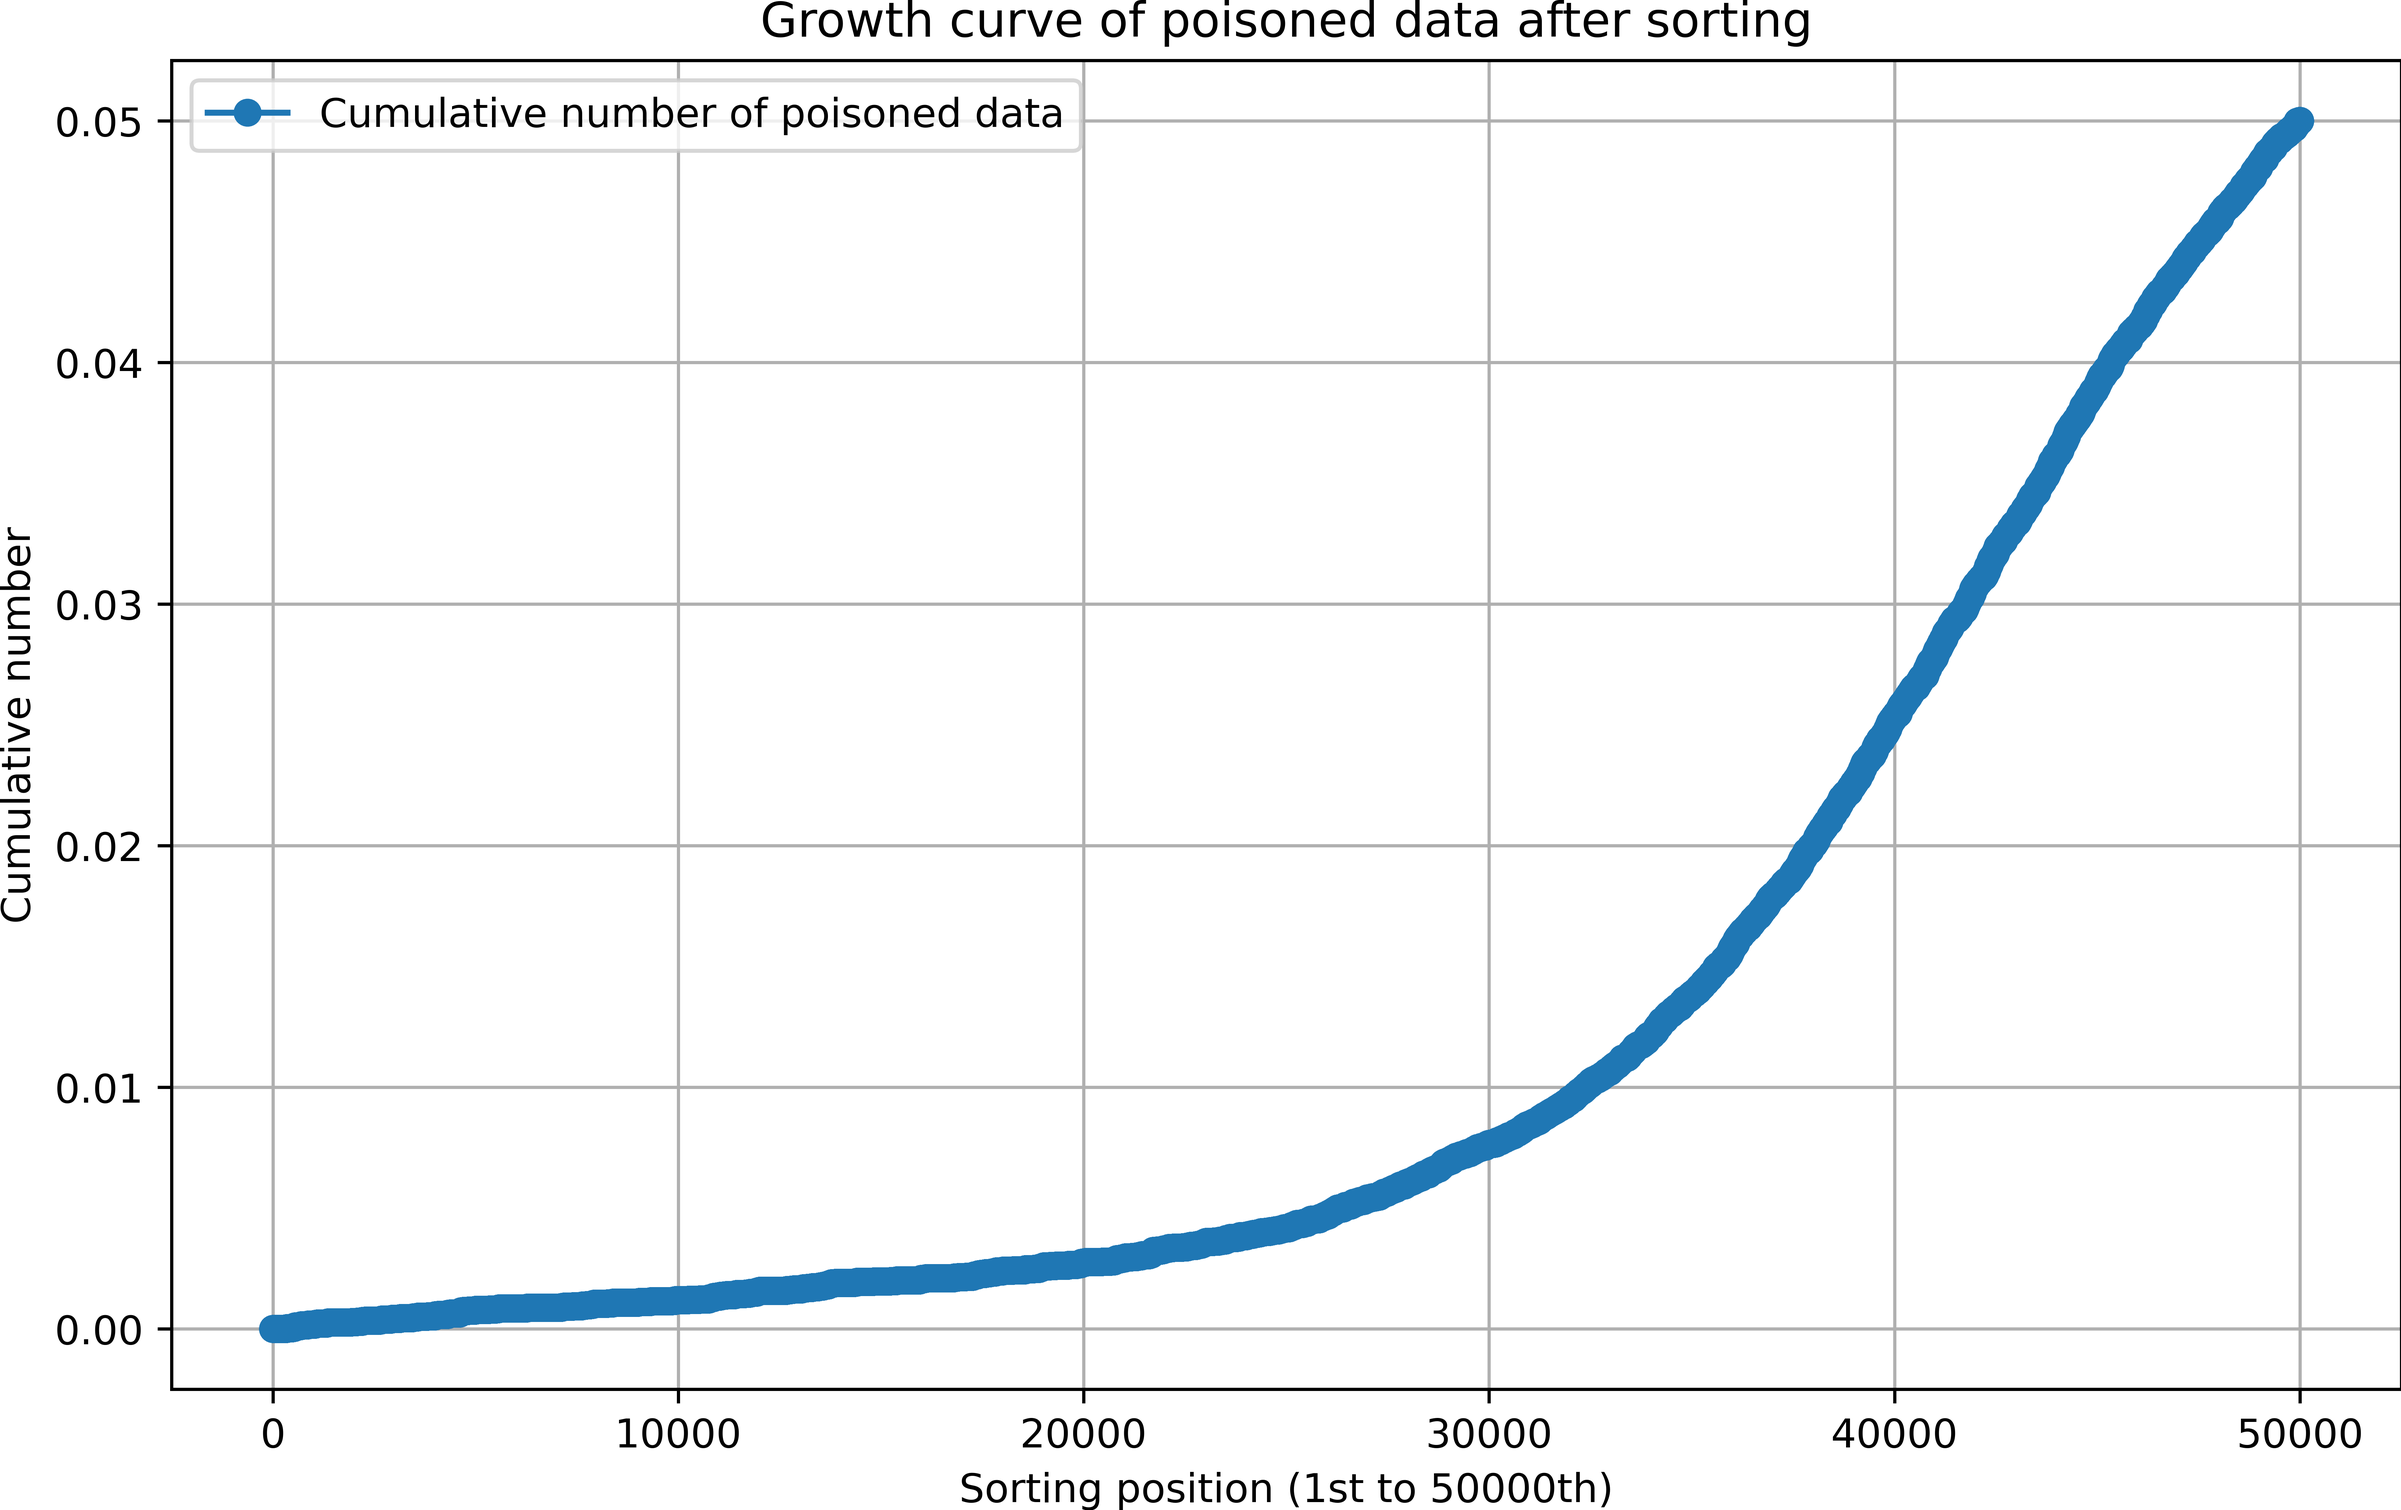
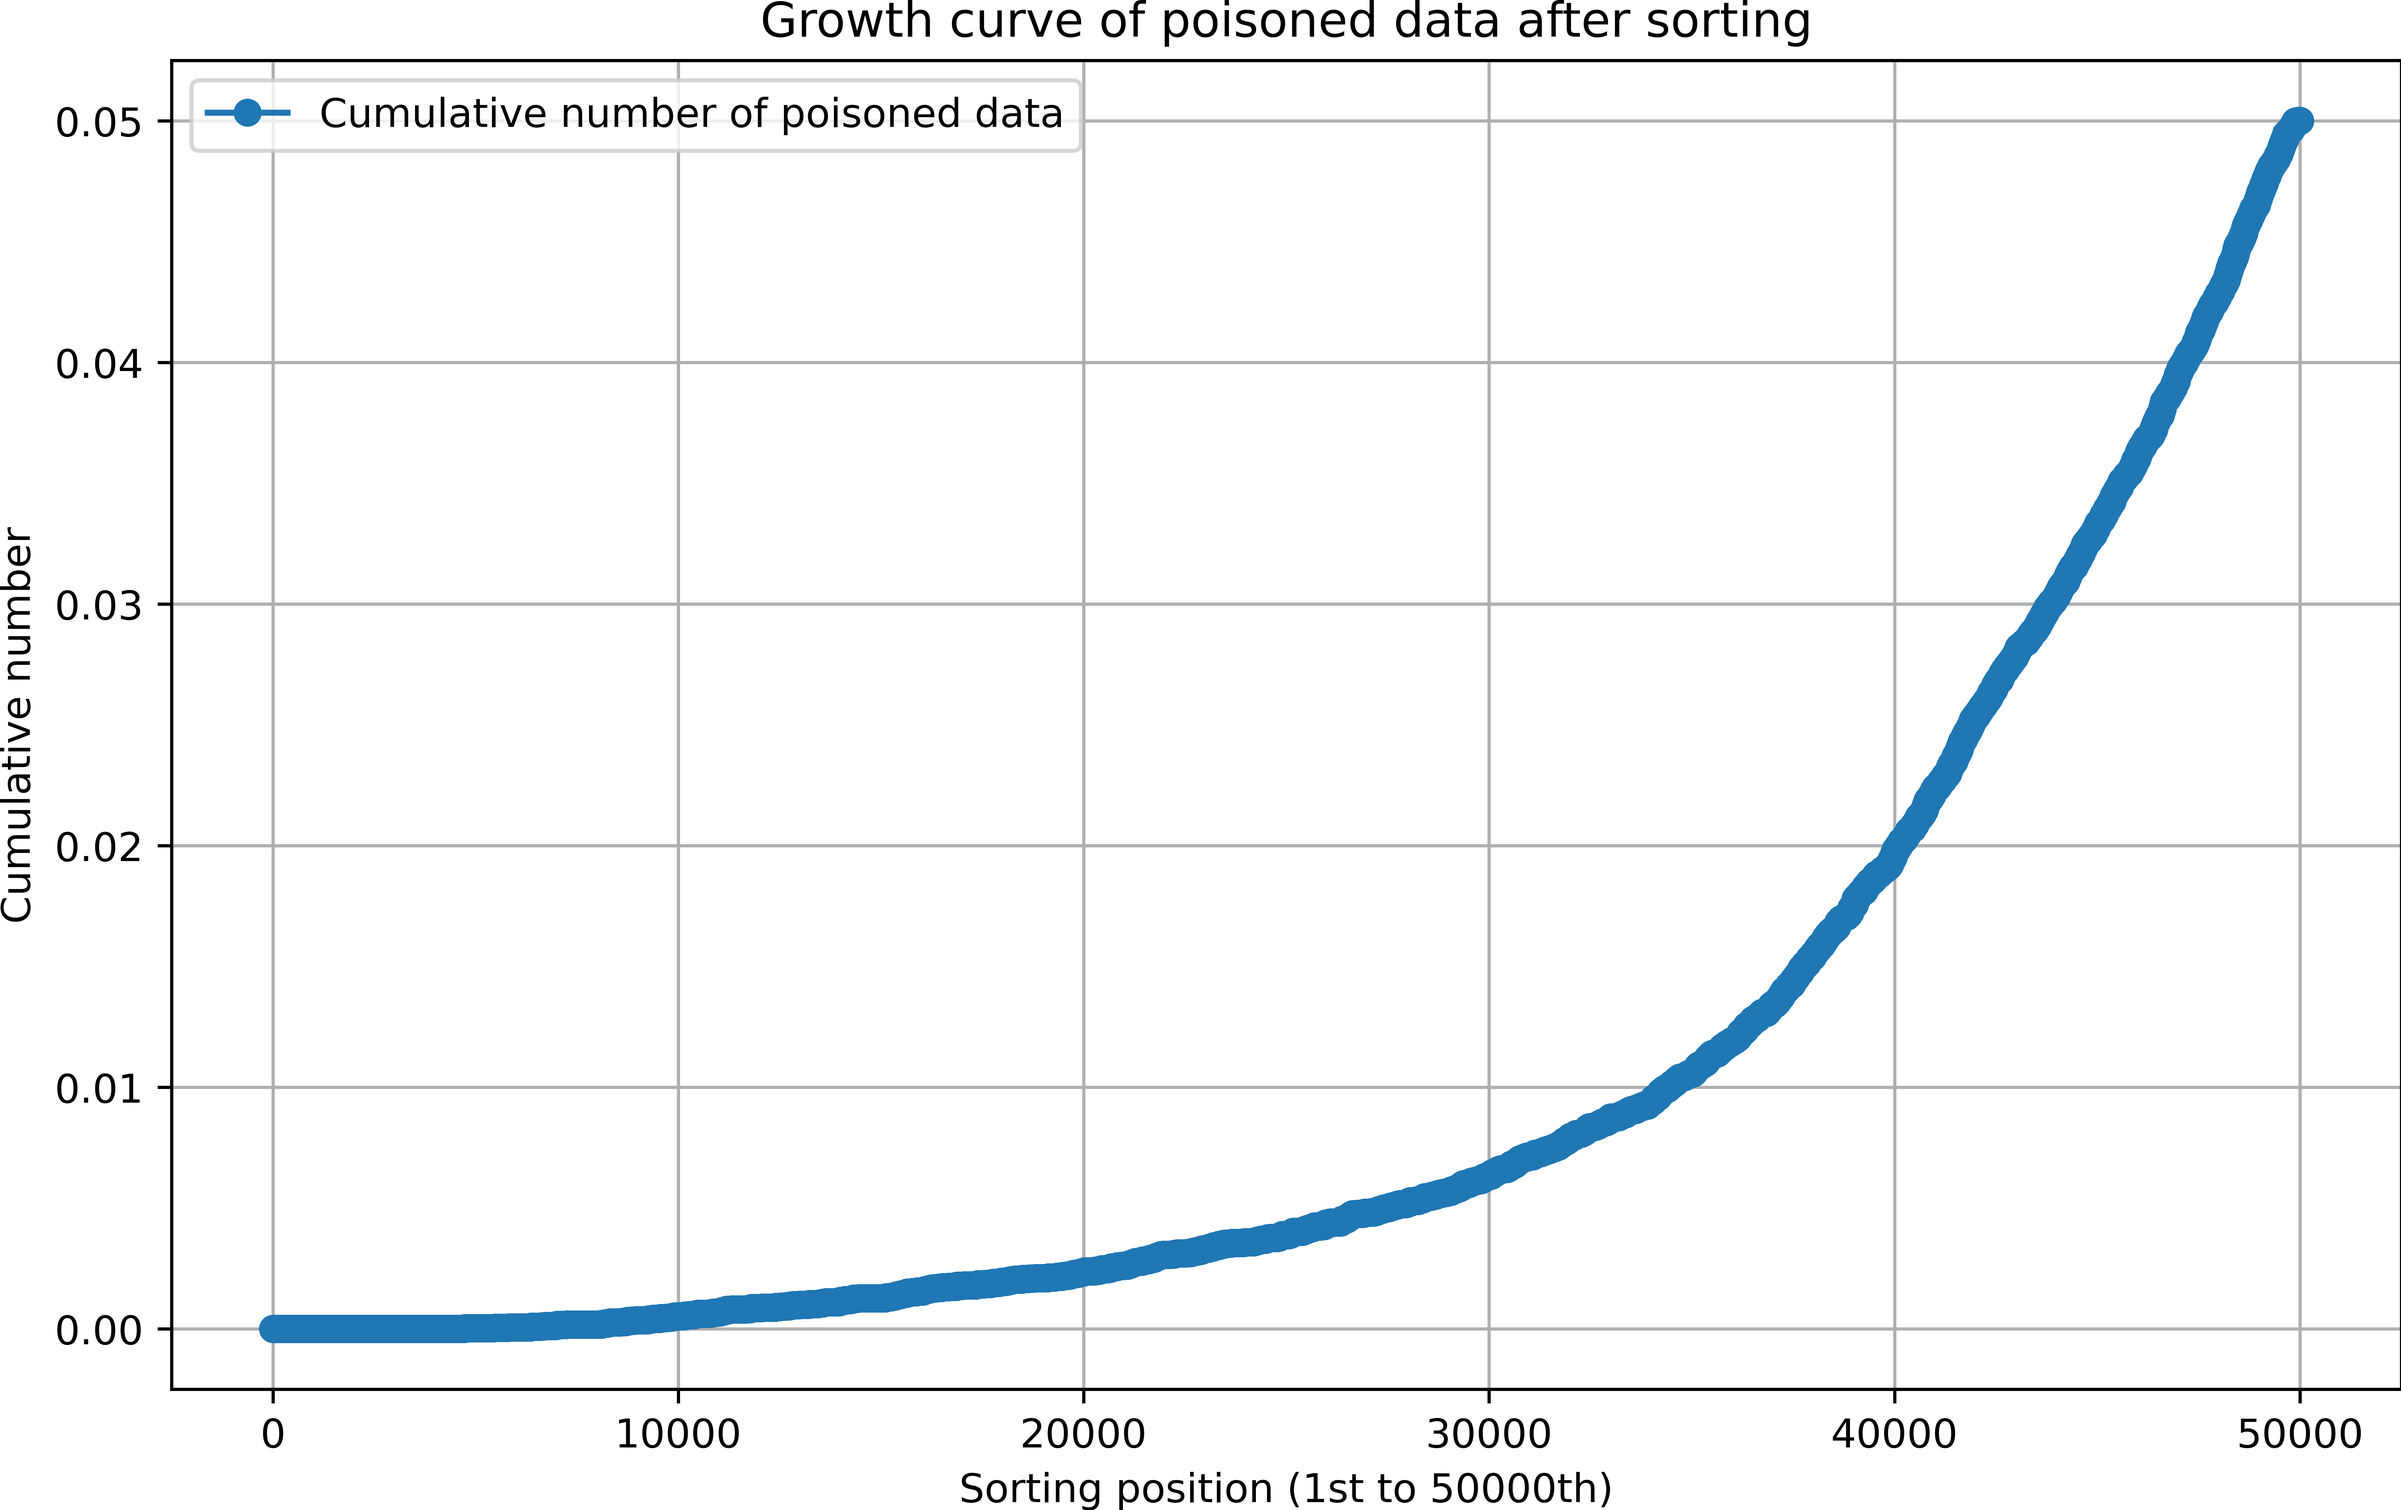
go

Changed region(s): [[0.1246, 0.0936, 0.9658, 0.9045]]

diff --git a/codes/eval.py b/codes/eval.py
@@ -1,9 +1,15 @@
 import os
 
+
+import matplotlib.pyplot as plt
+
 from codes import config
 from codes.common.eval_model import EvalModel
+from codes.transform_dataset import cifar10_BadNets, cifar10_IAD, cifar10_Refool, cifar10_WaNet
+from codes.models import get_model
 
 
+import torch
 # 加载后门攻击配套数据
 backdoor_data_path = os.path.join(config.exp_root_dir, 
                                         "ATTACK", 
@@ -12,6 +18,60 @@ backdoor_data_path = os.path.join(config.exp_root_dir,
                                         config.attack_name, 
                                         "backdoor_data.pth")
 backdoor_data = torch.load(backdoor_data_path,map_location="cpu")
+# 后门模型
 backdoor_model = backdoor_data["backdoor_model"]
 poisoned_ids = backdoor_data["poisoned_ids"]
 poisoned_testset = backdoor_data["poisoned_testset"] # 预制的poisoned_testset
+
+# 干净测试集
+clean_trainset, clean_testset = cifar10_BadNets()
+
+# 获得原生模型
+model = get_model(dataset_name=config.dataset_name, model_name=config.model_name)
+
+# 加载模型权重
+# 权重路径
+dict_path = "/data/mml/backdoor_detect/experiments/OurMethod/CIFAR10/VGG19/BadNets/2025-03-23_20:54:05/ckpt/latest_model.pt"
+dict_data = torch.load(dict_path,map_location="cpu")
+# 权重load到模型中
+model.load_state_dict(dict_data["model_state_dict"])
+# 设备
+device = torch.device(f"cuda:{config.gpu_id}")
+em = EvalModel(model,clean_testset,device)
+report =  em.eval_classification_report()
+accuracy =  report["accuracy"]
+print("acc:",accuracy)
+label_list = list(range(config.class_num))
+recall_list = []
+for label in label_list:
+   recall_list.append(report[str(label)]["recall"])
+
+bars = plt.bar(
+        x=label_list,
+        height=recall_list,
+        color='skyblue',
+        edgecolor='black'
+    )
+
+# 在柱顶显示百分比（保留1位小数）
+for bar in bars:
+    height = bar.get_height()
+    plt.text(
+        bar.get_x() + bar.get_width()/2.,  # 横坐标居中
+        height + 0.02,  # 纵坐标偏移（根据比例调整）
+        f'{height:.1%}',  # 显示百分比格式
+        ha='center', va='bottom',  # 水平居中，底部对齐
+        fontsize=9
+    )
+
+plt.title('Accuracy of each category', fontsize=14)
+plt.xlabel('Class', fontsize=12)
+plt.ylabel('Accuracy', fontsize=12)
+plt.xticks(ticks=label_list)  # 显式指定坐标轴刻度
+plt.ylim(0, 1.3)  # 扩大Y轴范围避免文字溢出
+plt.grid(axis='y', linestyle='--', alpha=0.6)
+plt.tight_layout()
+plt.savefig("imgs/4.png", bbox_inches='tight', pad_inches=0.0, dpi=800)
+plt.close()
+print("fjal")
+

diff --git a/codes/ourMethod/defence.py b/codes/ourMethod/defence.py
@@ -71,7 +71,7 @@ def sampling_analyse(loss_array,poisoned_ids,sample_idx_array,gt_label_array):
     plt.title('Growth curve of poisoned data after sorting')
     plt.legend()
     plt.grid(True)
-    plt.savefig("imgs/OM4_1.png", bbox_inches='tight', pad_inches=0.0, dpi=800)
+    plt.savefig("imgs/OM2_1.png", bbox_inches='tight', pad_inches=0.0, dpi=800)
     plt.close()
     '''
     分析2：分析下采样出的样本排名分布，因为ASD是直接基于排名进行采样的，即直接采样排名前50%的样本，
@@ -94,7 +94,7 @@ def sampling_analyse(loss_array,poisoned_ids,sample_idx_array,gt_label_array):
     plt.xlabel('Position Index')
     plt.colorbar()
     plt.yticks([])
-    plt.savefig("imgs/OM4_2.png", bbox_inches='tight', pad_inches=0.0, dpi=800)
+    plt.savefig("imgs/OM2_2.png", bbox_inches='tight', pad_inches=0.0, dpi=800)
     plt.close()
     '''
     分析2：分析下采样出的样本的类别统计分布。因为，我们的方法考虑了样本的标签，不同的标签具有不同的采样概率，因此需要
@@ -139,7 +139,7 @@ def sampling_analyse(loss_array,poisoned_ids,sample_idx_array,gt_label_array):
     plt.ylim(0, 1.2 * max(label_percent))  # 扩大Y轴范围避免文字溢出
     plt.grid(axis='y', linestyle='--', alpha=0.6)
     plt.tight_layout()
-    plt.savefig("imgs/OM4_3.png", bbox_inches='tight', pad_inches=0.0, dpi=800)
+    plt.savefig("imgs/OM2_3.png", bbox_inches='tight', pad_inches=0.0, dpi=800)
     plt.close()
 
 def get_class_sampled_prob_map(classes_rank:list):
@@ -398,7 +398,7 @@ def defence_train(
     best_epoch = -1
     # 总共的训练轮次
     total_epoch = config.asd_config[kwargs["dataset_name"]]["epoch"]
-    for epoch in range(total_epoch): # range(total_epoch): # range(60,90)
+    for epoch in range(60,90): # range(total_epoch): # range(60,90)
         print("===Epoch: {}/{}===".format(epoch+1, total_epoch))
         if epoch < 60: # epoch:[0,59]
             # 记录下样本的loss,feature,label,方便进行clean数据的挖掘
@@ -686,8 +686,6 @@ def class_agnostic_loss_guided_split(record_list, ratio, poisoned_indice, sampli
         sample_idx_array = total_indice,
         gt_label_array = gt_label_array
         )
-    
-    
     return clean_pool_flag
 
 def meta_split(record_list, meta_record_list, ratio, poisoned_indice, sampling_method:str, class_prob_map=None, classes_rank=None):

diff --git a/codes/ourMethod/OurMethod_defence_train.py b/codes/ourMethod/OurMethod_defence_train.py
@@ -56,14 +56,14 @@ poisoned_testset = backdoor_data["poisoned_testset"] # 预制的poisoned_testset
 # 得到一个raw model
 victim_model = get_model(dataset_name=config.dataset_name, model_name=config.model_name)
 
-'''
+
 # 加载stage1后(epoch=59完成后)的模型权重
 # 权重路径
-dict_path = "/data/mml/backdoor_detect/experiments/OurMethod/CIFAR10/ResNet18/BadNets/2025-03-25_11:23:08/ckpt/epoch59.pt"
+dict_path = "/data/mml/backdoor_detect/experiments/OurMethod/CIFAR10/VGG19/BadNets/2025-03-23_20:54:05/ckpt/epoch59.pt"
 dict_data = torch.load(dict_path,map_location="cpu")
 # 权重load到模型中
 victim_model.load_state_dict(dict_data["model_state_dict"])
-'''
+
 
 # 根据poisoned_ids得到非预制菜poisoneds_trainset和新鲜clean_testset
 if config.dataset_name == "CIFAR10":

diff --git a/codes/config.py b/codes/config.py
@@ -41,7 +41,7 @@ dataset_name = "CIFAR10" # CIFAR10, GTSRB, ImageNet2012_subset
 # 数据集分类任务数量
 class_num = 10 #  CIFAR-10:10,GTSRB:43,ImageNet2012_subset:30
 # 当前实验设置的模型名字
-model_name = "ResNet18" # ResNet18, VGG19, DenseNet
+model_name = "VGG19" # ResNet18, VGG19, DenseNet
 # 当前实验设置的攻击
 attack_name = "BadNets" # BadNets, IAD, Refool, WaNet
 # GPU设备 
